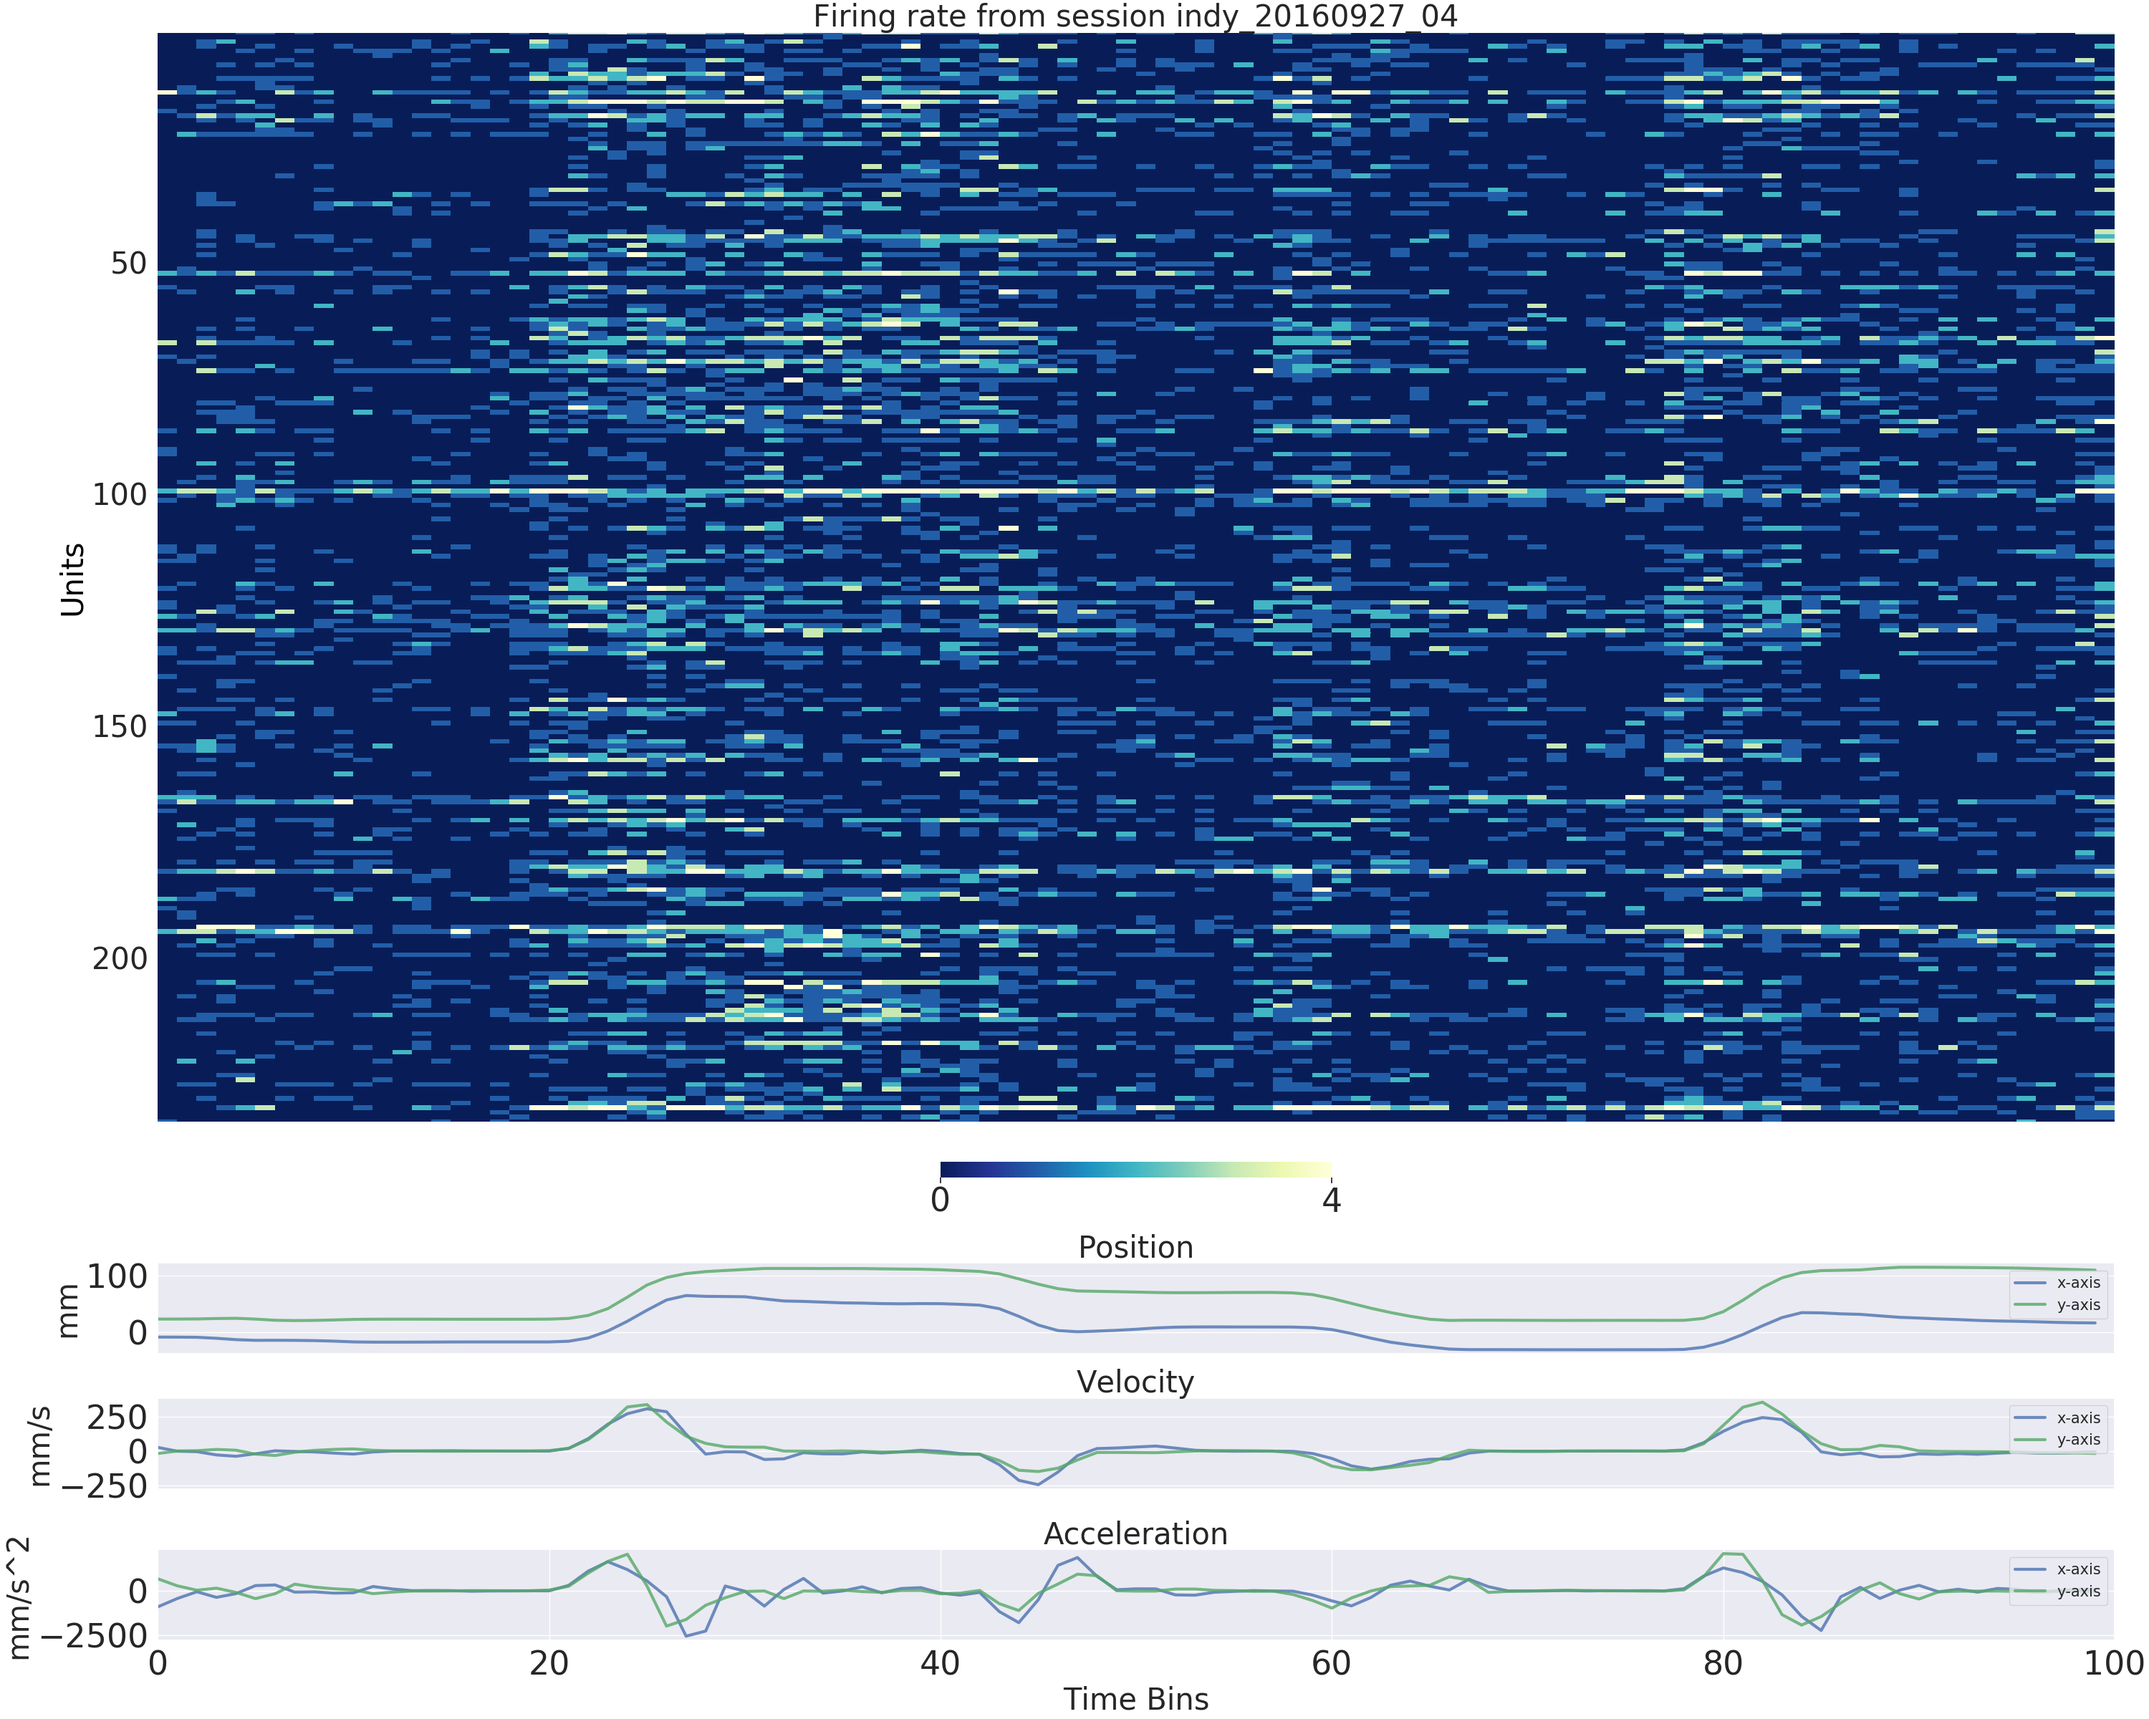
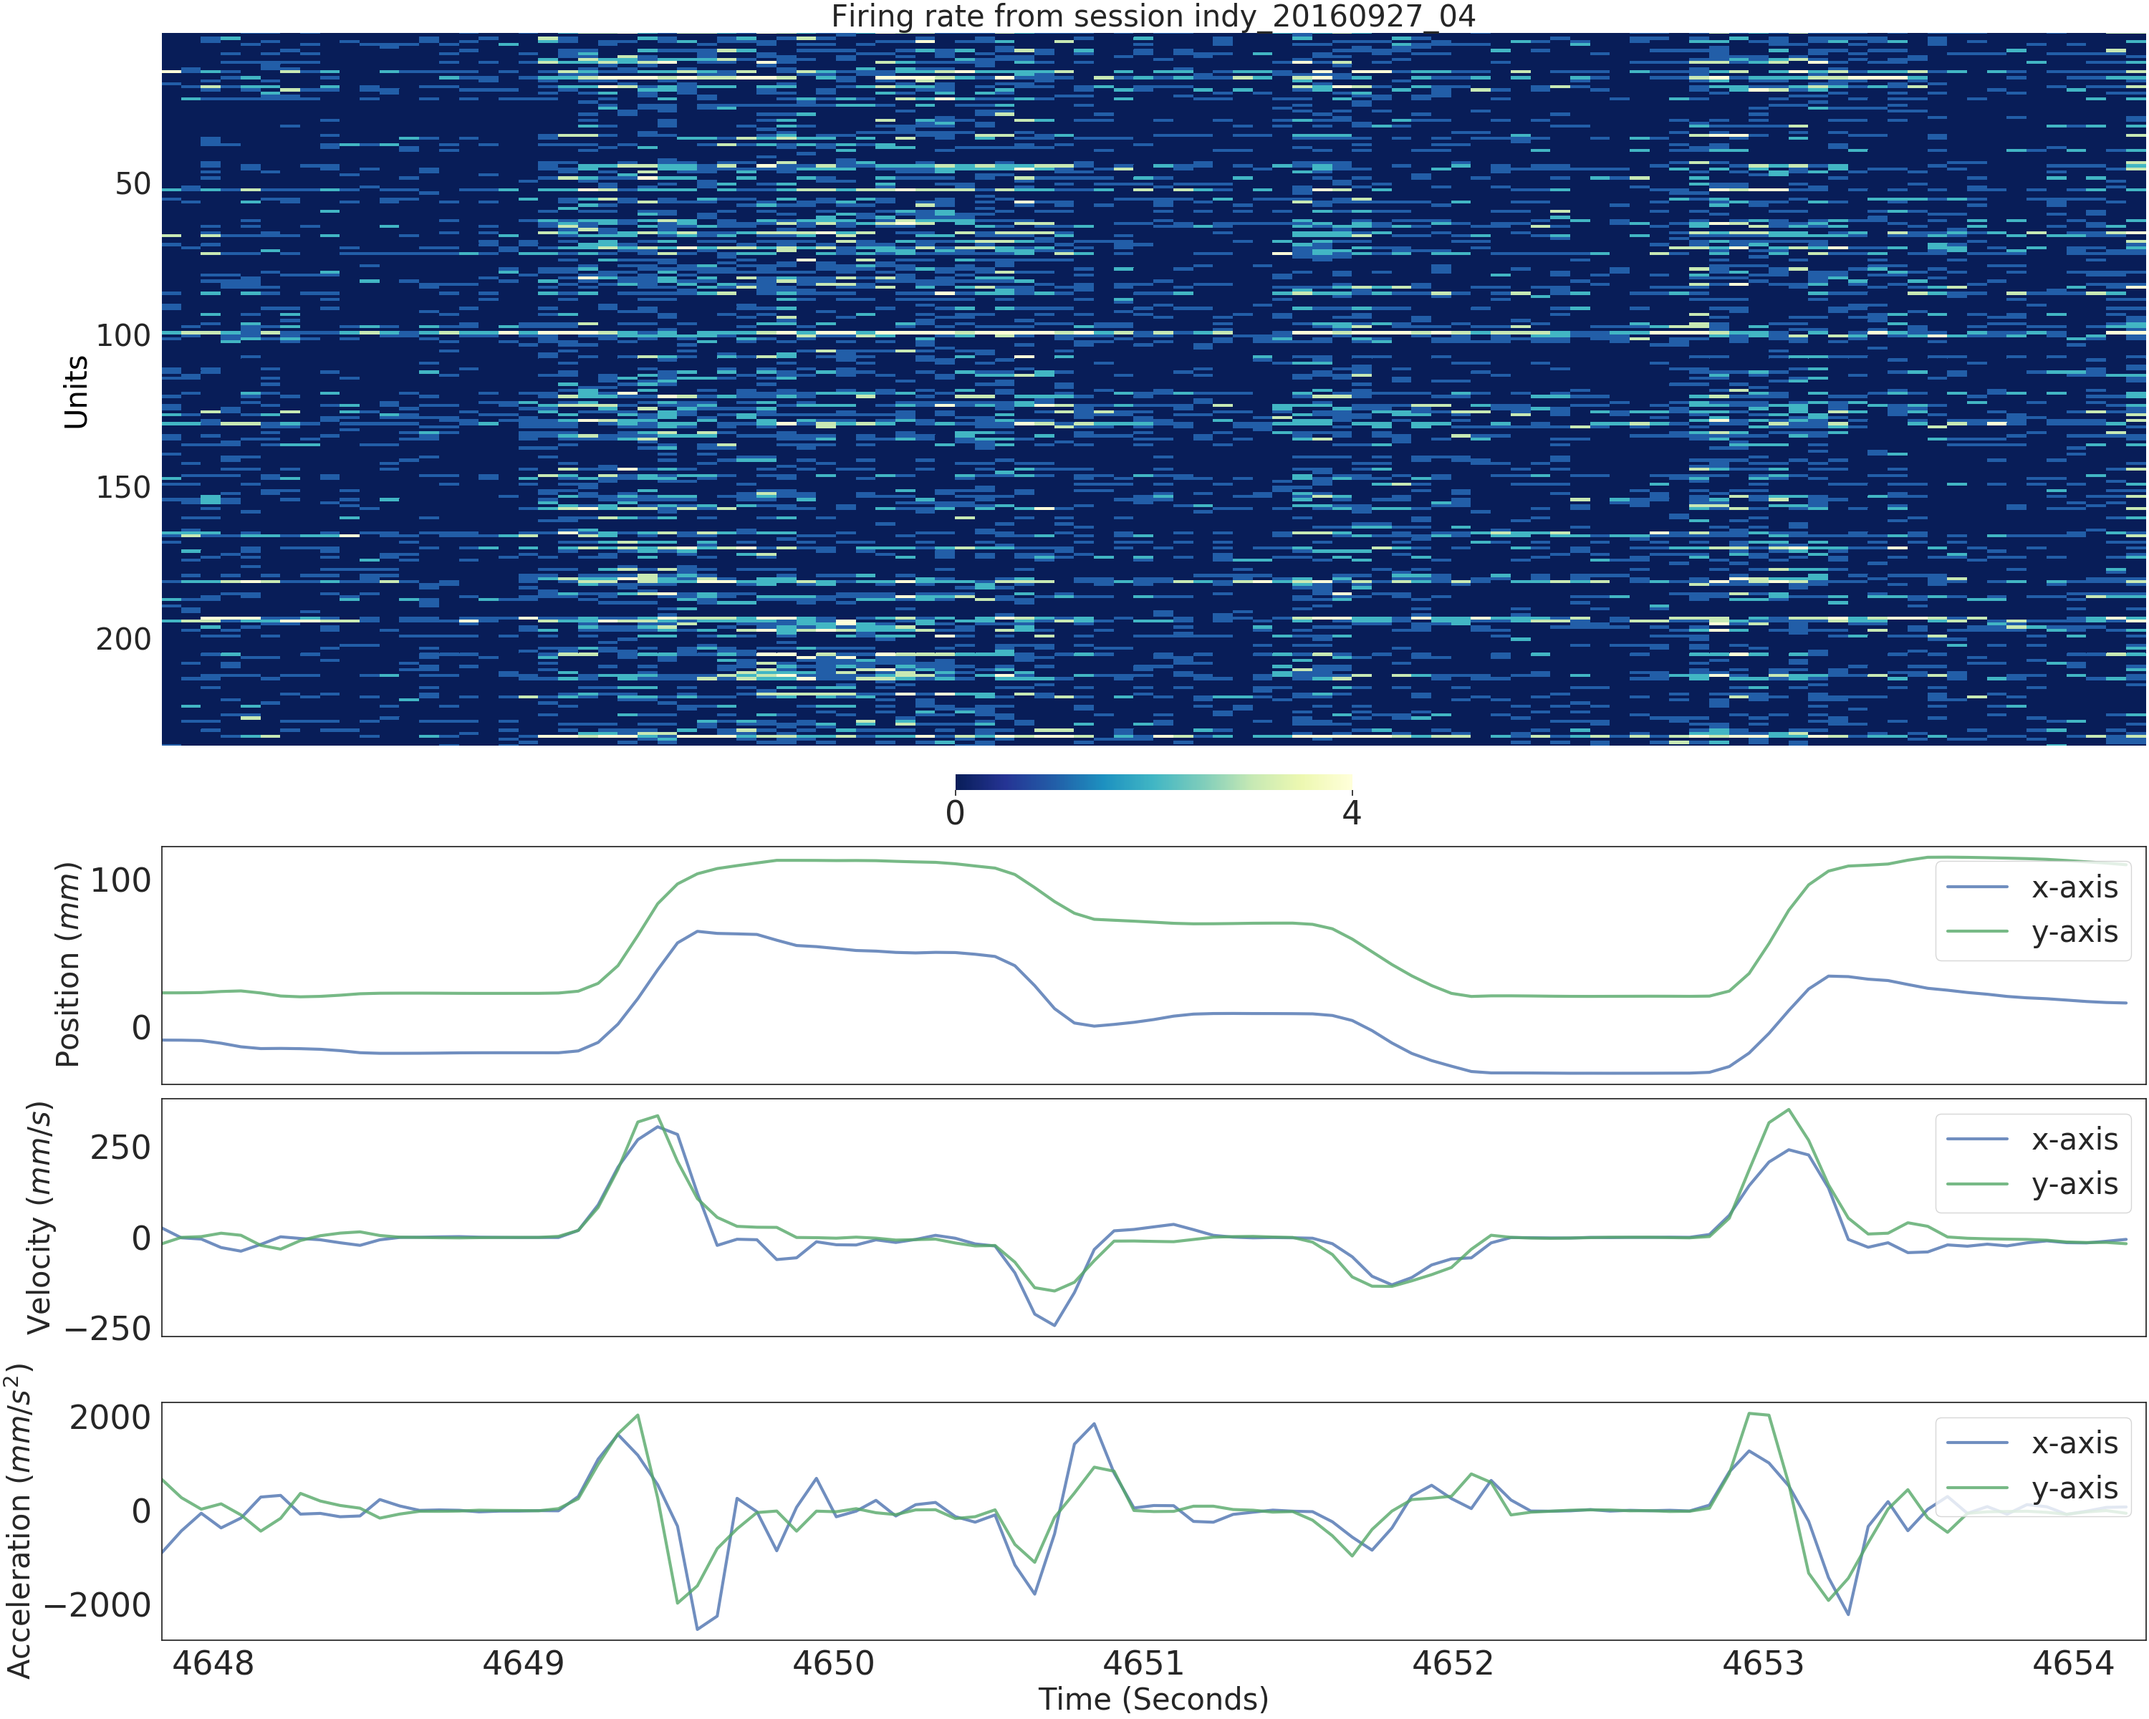
fix fig

diff --git a/Python_code/Pytorch/Plotting_Firing_Rate_Heatmap.py b/Python_code/Pytorch/Plotting_Firing_Rate_Heatmap.py
@@ -332,6 +332,9 @@ plt.figure(figsize=(my_plot_width, my_plot_height))
 plt.title( 'Session ' + session_name + ' Firing Rate', fontsize=30, color="black")
 # plt.title('test')
 sns.set(font_scale=3)
+sns.set_style("white")
+sns.color_palette(palette=None)
+
 data = torch.transpose( testing_x[reduce_time_bin:reduce_time_bin*3,:], 0, 1)
 
 # Eliminate empty units
@@ -371,8 +374,12 @@ plt.close()
 # plt.rc('font', family='serif')
 
 plt.title( 'Session ' + session_name + ' Firing Rate', fontsize=30, color="black")
+
 sns.set(font_scale=3)
-f ,ax = plt.subplots(4,1, gridspec_kw={'height_ratios': [12, 1, 1, 1],  "hspace":0.2 ,"left":0.1, "right":0.9, "top":0.95, "bottom":0.05}, constrained_layout=True , figsize=(my_plot_width, my_plot_height*1.2))
+sns.set_style("white")
+sns.color_palette(palette=None)
+
+f ,ax = plt.subplots(4,1, gridspec_kw={'height_ratios': [3, 1, 1, 1],  "hspace":0.2 ,"left":0.1, "right":0.9, "top":0.95, "bottom":0.05}, constrained_layout=True , figsize=(my_plot_width, my_plot_height*1.2))
 
 cbar_kws={"orientation": "horizontal", "shrink": 0.2, "aspect":20,"use_gridspec":"True", "fraction":0.01 , "pad":0.03, 'ticks' : [ torch.min(data), 4 ]}
 sns.heatmap( data=data, vmax=4 ,xticklabels=False, yticklabels=True, cbar_kws=cbar_kws, cmap='YlGnBu_r', ax=ax[0]) # important, not ax[0] = sns.heatmap(...)
@@ -391,33 +398,37 @@ ax[0].set_ylabel('Units', fontsize=my_fontsize, color="black")
 
 
 
-ax[1].set_title('Position', fontsize=my_fontsize)
-ax[1].plot( testing_y_1[reduce_time_bin:reduce_time_bin*3], 'b', linewidth=3, label='x-axis', alpha=0.8 )
-ax[1].plot( testing_y_2[reduce_time_bin:reduce_time_bin*3], 'g', linewidth=3, label='y-axis', alpha=0.8 )
-ax[1].set_ylabel('mm', fontsize=my_fontsize, rotation=90)
+# ax[1].set_title( 'Position', fontsize=my_fontsize)
+ax[1].plot(time_stamp_64ms[reduce_time_bin:reduce_time_bin*3], testing_y_1[reduce_time_bin:reduce_time_bin*3], 'b', linewidth=3, label='x-axis', alpha=0.8 )
+ax[1].plot(time_stamp_64ms[reduce_time_bin:reduce_time_bin*3], testing_y_2[reduce_time_bin:reduce_time_bin*3], 'g', linewidth=3, label='y-axis', alpha=0.8 )
+ax[1].set_ylabel( 'Position ($mm$)', fontsize=my_fontsize, rotation=90)
 ax[1].get_xaxis().set_ticks([])
-ax[1].legend(loc='upper right', fontsize=my_fontsize*0.5)
-ax[1].set_xlim([ 0, len( testing_y_2[reduce_time_bin:reduce_time_bin*3] ) ])
+ax[1].legend(loc='upper right', fontsize=my_fontsize)
+# ax[1].set_xlim([ 0, len( testing_y_2[reduce_time_bin:reduce_time_bin*3] ) ])
+ax[1].set_xlim([ time_stamp_64ms[reduce_time_bin] ,  time_stamp_64ms[reduce_time_bin*3]  ])
 
 
-ax[2].set_title('Velocity', fontsize=my_fontsize)
-ax[2].plot( testing_y_3[reduce_time_bin:reduce_time_bin*3], 'b', linewidth=3, label='x-axis', alpha=0.8 )
-ax[2].plot( testing_y_4[reduce_time_bin:reduce_time_bin*3], 'g', linewidth=3, label='y-axis', alpha=0.8 )
-ax[2].set_ylabel('mm/s', fontsize=my_fontsize, rotation=90)
+# ax[2].set_title( 'Velocity', fontsize=my_fontsize)
+ax[2].plot(time_stamp_64ms[reduce_time_bin:reduce_time_bin*3], testing_y_3[reduce_time_bin:reduce_time_bin*3], 'b', linewidth=3, label='x-axis', alpha=0.8 )
+ax[2].plot(time_stamp_64ms[reduce_time_bin:reduce_time_bin*3], testing_y_4[reduce_time_bin:reduce_time_bin*3], 'g', linewidth=3, label='y-axis', alpha=0.8 )
+ax[2].set_ylabel( 'Velocity ($mm/s$)', fontsize=my_fontsize, rotation=90)
 ax[2].get_xaxis().set_ticks([])
-ax[2].legend(loc='upper right', fontsize=my_fontsize*0.5)
-ax[2].set_xlim([ 0, len( testing_y_4[reduce_time_bin:reduce_time_bin*3] ) ])
+ax[2].legend(loc='upper right', fontsize=my_fontsize)
+# ax[2].set_xlim([ 0, len( testing_y_4[reduce_time_bin:reduce_time_bin*3] ) ])
+ax[2].set_xlim([ time_stamp_64ms[reduce_time_bin] ,  time_stamp_64ms[reduce_time_bin*3]  ])
 
 
 
-ax[3].set_title('Acceleration', fontsize=my_fontsize)
-ax[3].plot( testing_y_5[reduce_time_bin:reduce_time_bin*3], 'b', linewidth=3, label='x-axis', alpha=0.8 )
-ax[3].plot( testing_y_6[reduce_time_bin:reduce_time_bin*3], 'g', linewidth=3, label='y-axis', alpha=0.8 )
-ax[3].set_ylabel( 'mm/$s^2$', fontsize=my_fontsize, rotation=90)
+# ax[3].set_title( 'Acceleration', fontsize=my_fontsize)
+ax[3].plot(time_stamp_64ms[reduce_time_bin:reduce_time_bin*3], testing_y_5[reduce_time_bin:reduce_time_bin*3], 'b', linewidth=3, label='x-axis', alpha=0.8 )
+ax[3].plot(time_stamp_64ms[reduce_time_bin:reduce_time_bin*3], testing_y_6[reduce_time_bin:reduce_time_bin*3], 'g', linewidth=3, label='y-axis', alpha=0.8 )
+ax[3].set_ylabel( 'Acceleration ($mm/s^2$)', fontsize=my_fontsize, rotation=90)
 # ax[3].get_xaxis().set_ticks([])
-ax[3].set_xlabel('Time Bins', fontsize=my_fontsize)
-ax[3].legend(loc='upper right', fontsize=my_fontsize*0.5)
-ax[3].set_xlim([ 0, len( testing_y_6[reduce_time_bin:reduce_time_bin*3] ) ])
+# ax[3].set_xlabel('Time Bins', fontsize=my_fontsize)
+ax[3].set_xlabel('Time (Seconds)', fontsize=my_fontsize)
+ax[3].legend(loc='upper right', fontsize=my_fontsize)
+# ax[3].set_xlim([ 0, len( testing_y_6[reduce_time_bin:reduce_time_bin*3] ) ])
+ax[3].set_xlim([ time_stamp_64ms[reduce_time_bin] ,  time_stamp_64ms[reduce_time_bin*3]  ])
 
 
 

diff --git a/Python_code/data_processing/some_modules.py b/Python_code/data_processing/some_modules.py
@@ -293,11 +293,11 @@ class regular_modules():
         plt.xlabel('Time (second)', fontsize=25)
 
         if kinematic_variable_type == 'x_and_y_pos':
-            plt.ylabel('Position (mm)', fontsize=25)
+            plt.ylabel('Position ($mm$)', fontsize=25)
         if kinematic_variable_type == 'x_and_y_vel':
-            plt.ylabel('Velocity (mm/s)', fontsize=25)
+            plt.ylabel('Velocity ($mm/s$)', fontsize=25)
         if kinematic_variable_type == 'x_and_y_acc':
-            plt.ylabel('Acceleration (mm/$s^2$)', fontsize=25)
+            plt.ylabel('Acceleration ($mm/s^2$)', fontsize=25)
 
         plt.xticks(fontsize=25, color="black")
         plt.yticks(fontsize=25, color="black")
